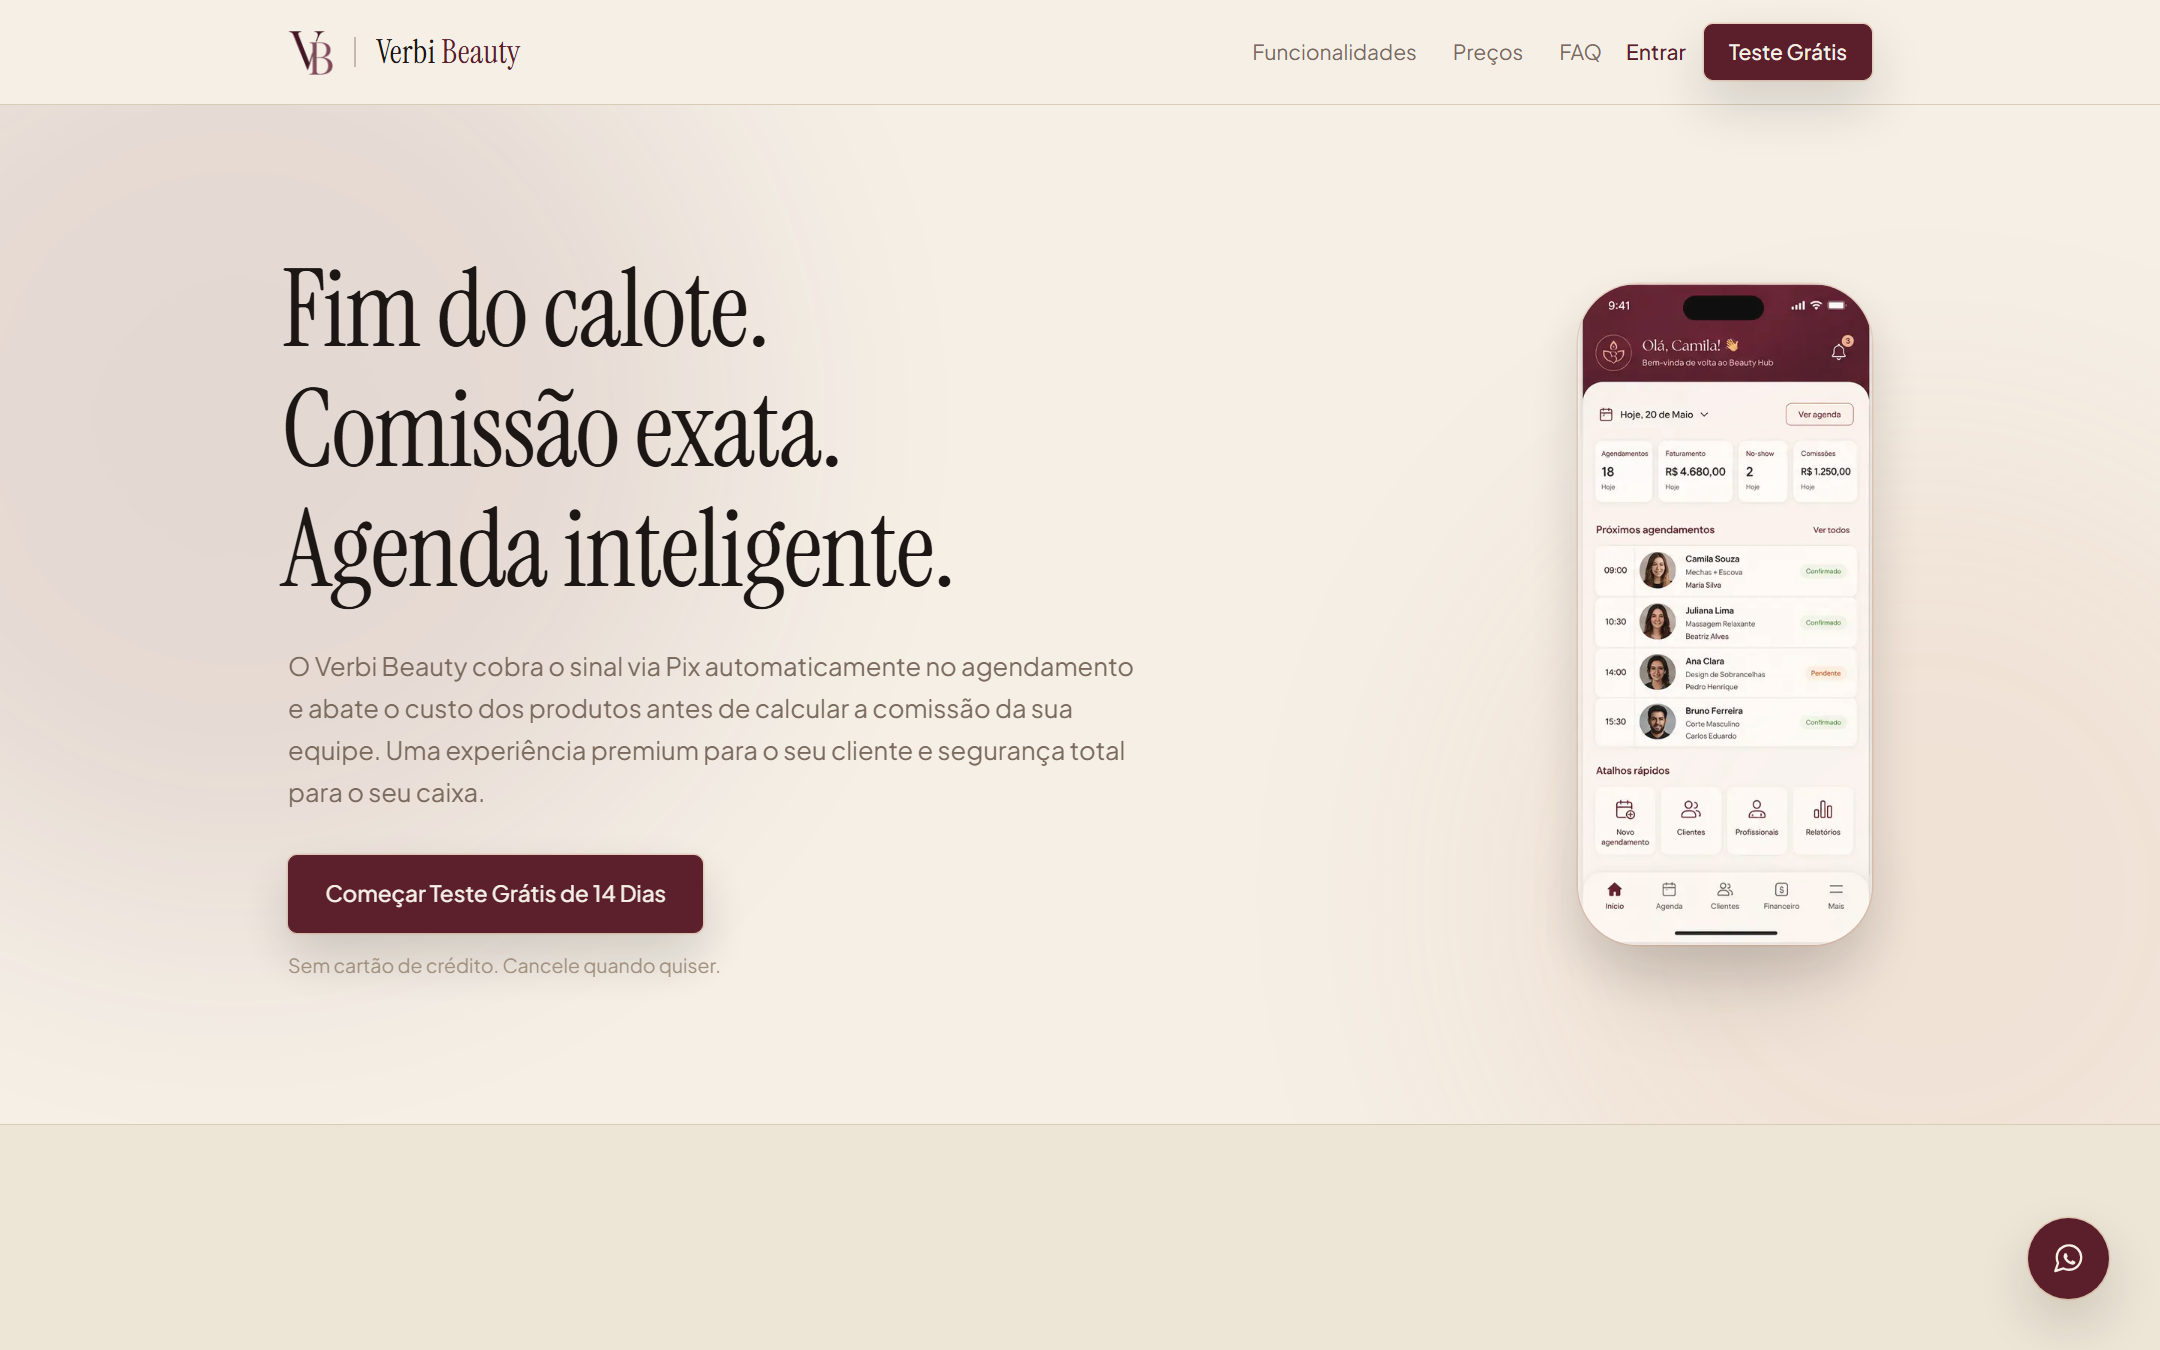
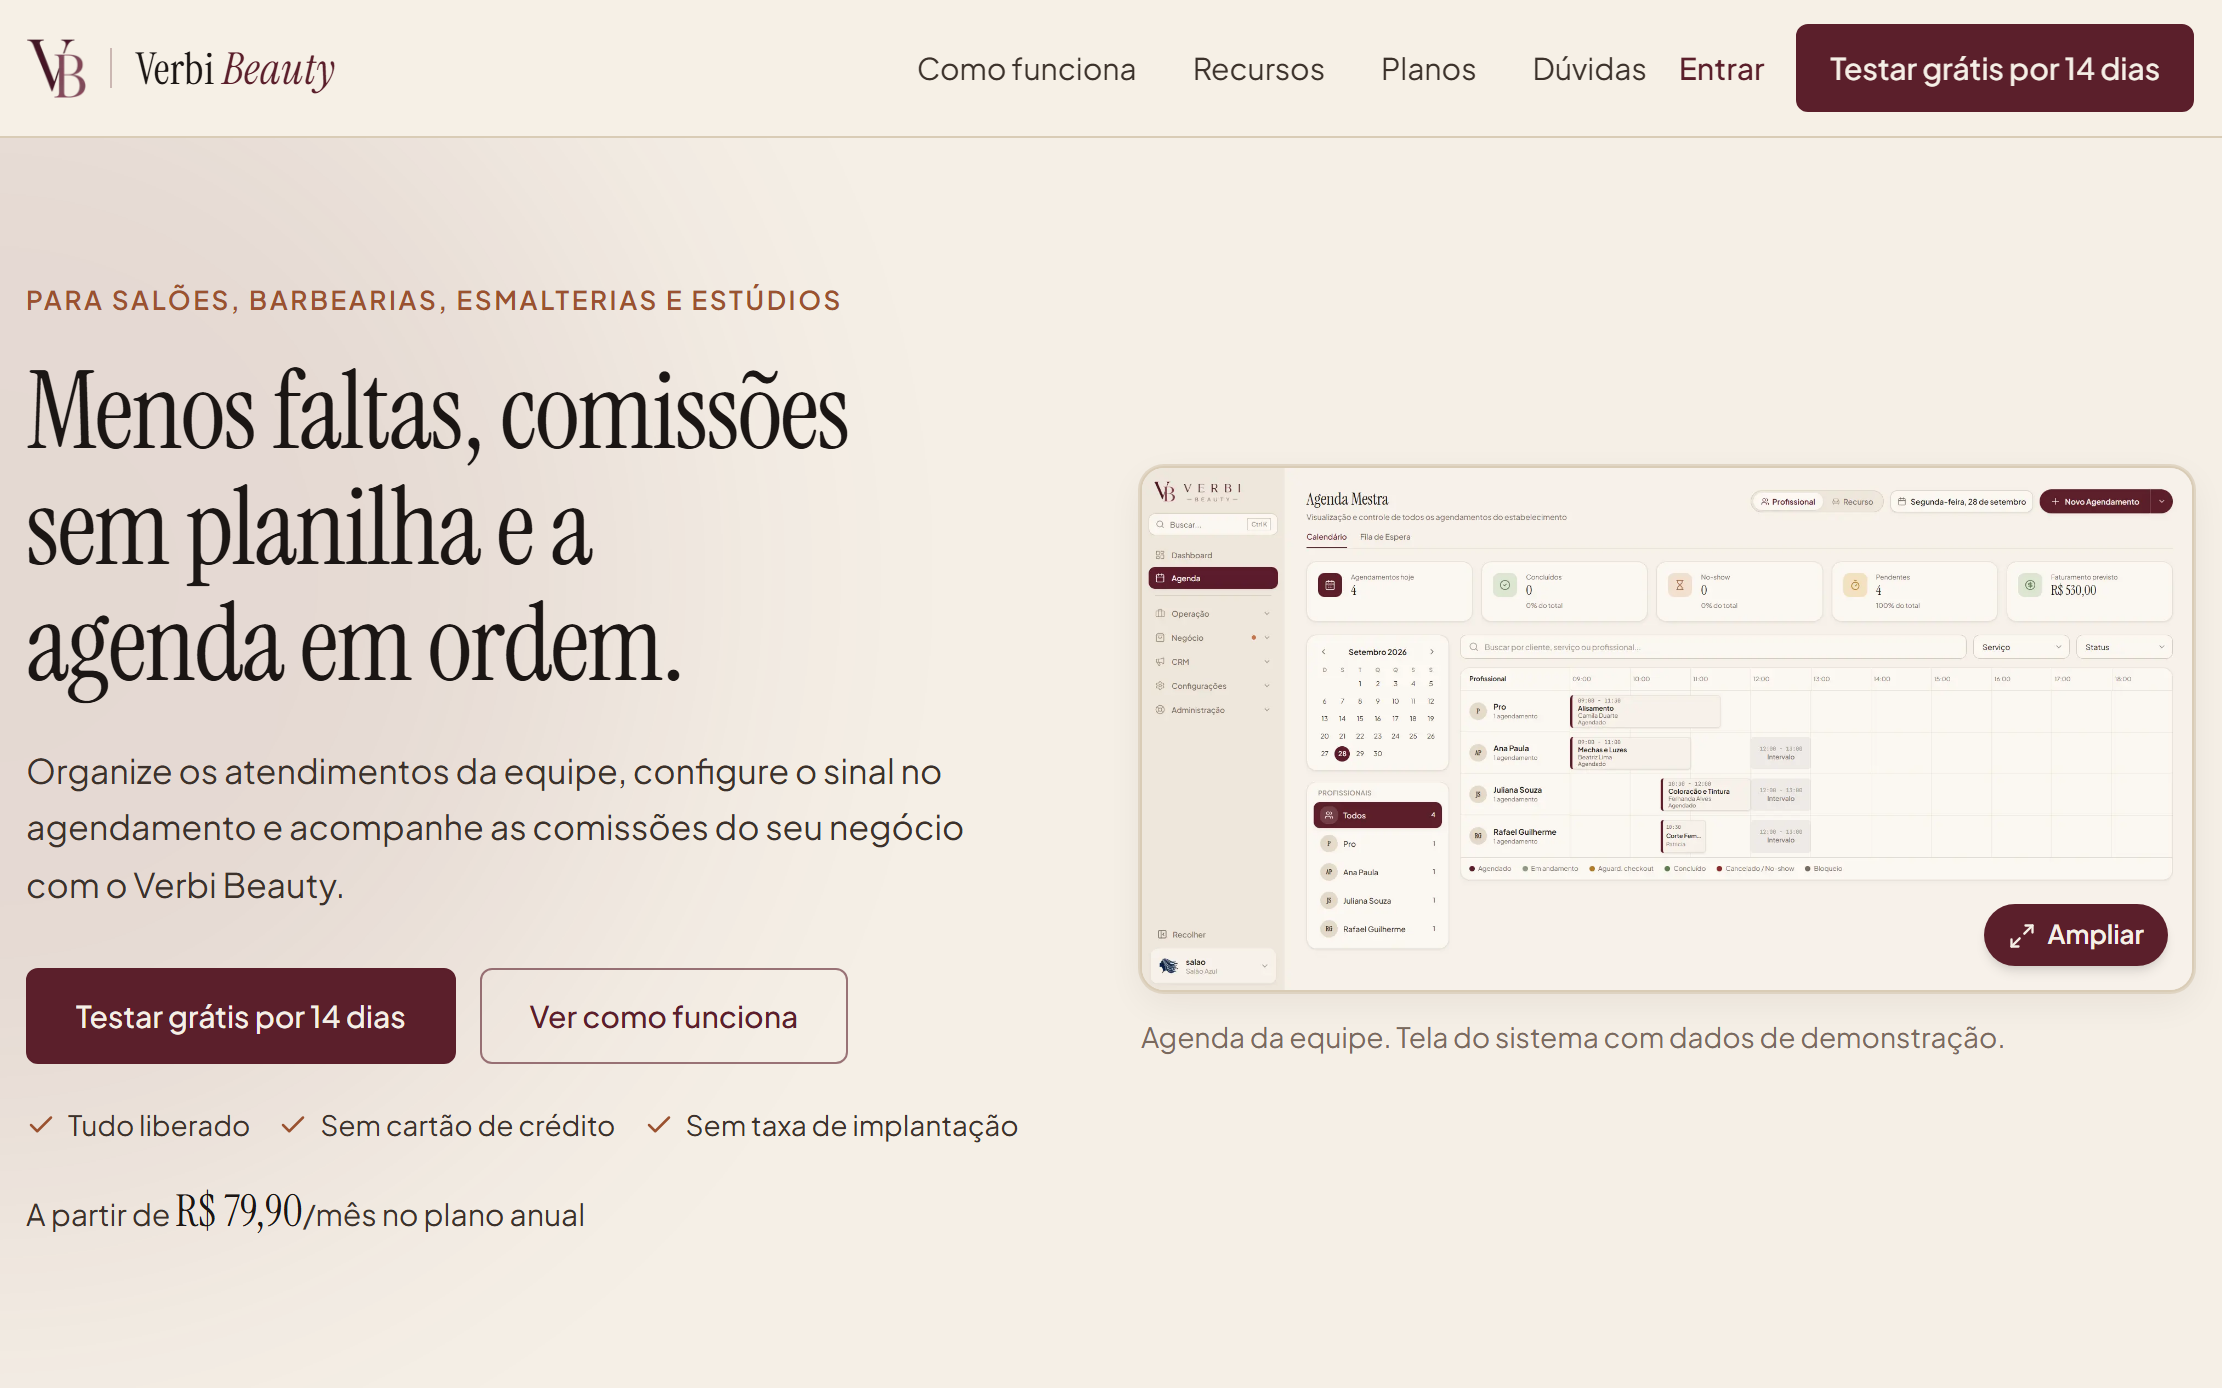
Trabalhos da Verbinden e Stack por área
- "Projetos" vira "Trabalhos" (EN: "Work"), com eyebrow "Verbinden"
- Hospital Management System sai; entra o site do Dr. Victor Camillo (Agência Verbinden)
- Cards com texto focado no resultado para o cliente e chips com as entregas
- Captura nova do Verbi Beauty (landing atual) e imagens dos cards sempre coloridas
- Stack dividida em Backend, Frontend, Entrega e qualidade e Segurança na prática;
  "Aprimorando" segue igual, numa linha separada mais discreta

diff --git a/src/i18n/pt.ts b/src/i18n/pt.ts
@@ -20,7 +20,7 @@ export const pt: Dictionary = {
   nav: {
     about: 'Sobre',
     experience: 'Experiência',
-    projects: 'Projetos',
+    projects: 'Trabalhos',
     stack: 'Stack',
     education: 'Formação',
     contact: 'Contato',
@@ -81,39 +81,43 @@ export const pt: Dictionary = {
     ],
   },
   projects: {
-    eyebrow: 'Portfólio',
-    title: 'Projetos',
+    eyebrow: 'Verbinden',
+    title: 'Trabalhos',
     items: [
       {
         title: 'Verbi Beauty',
-        subtitle: 'Verbinden',
+        subtitle: 'Sistema de gestão (SaaS)',
         description:
-          'Sistema de gestão para salões, barbearias, esmalterias e estúdios: agenda da equipe, sinal por Pix no agendamento online e comissões calculadas por regra. Em fase final antes do lançamento. Código privado.',
+          'Sistema de gestão para salões, barbearias, esmalterias e estúdios que reduz faltas e acaba com a planilha de comissões: o horário só é confirmado com o sinal pago por Pix, e a comissão de cada profissional sai calculada, já descontando o custo de material. Em fase final antes do lançamento. Código privado.',
         imageAlt:
-          'Painel do Verbi Beauty mostrando a agenda do dia, faturamento e os próximos agendamentos',
-        tags: [],
+          'Página do Verbi Beauty com o título "Menos faltas, comissões sem planilha e a agenda em ordem" e a tela da agenda da equipe',
+        tags: [
+          'Agendamento online com sinal por Pix',
+          'Comissões automáticas',
+          'Agenda da equipe',
+          'Lembretes no WhatsApp',
+          'Multi-tenant e seguro',
+        ],
         links: [
           { label: 'beauty.verbinden.com.br', href: 'https://beauty.verbinden.com.br' },
           { label: 'verbinden.com.br', href: 'https://verbinden.com.br' },
         ],
       },
       {
-        title: 'Hospital Management System',
+        title: 'Site do Dr. Victor Camillo',
+        subtitle: 'Agência Verbinden',
         description:
-          'Sistema de gestão de patrimônio hospitalar com auditoria completa de alterações via Hibernate Envers, autenticação stateless com JWT e controle de acesso por função (RBAC). Projeto individual.',
+          'Site feito para transformar quem encontra um endocrinologista do Rio de Janeiro no Google ou no Instagram em consulta marcada: explica o que ele trata e como é a consulta, e leva o paciente direto ao WhatsApp com a mensagem pronta para agendar. Em fase de publicação.',
         imageAlt:
-          'Tela de login do Hospital Management System, com acesso restrito e um modo de visitante para recrutadores',
-        tags: ['Java 21', 'Spring Boot 3', 'React', 'PostgreSQL'],
-        links: [
-          {
-            label: 'Código no GitHub',
-            href: 'https://github.com/EndryusSchmidel/hospital-management-system',
-          },
-          {
-            label: 'Demo online',
-            href: 'https://hospital-management-system-gilt-kappa.vercel.app/',
-          },
+          'Página inicial do site do Dr. Victor Camillo, com o título "Equilíbrio hormonal, saúde em cada fase" e a foto do médico',
+        tags: [
+          'SEO para aparecer no Google',
+          'Consultório no Google Maps',
+          'Carregamento rápido no celular e no PC',
+          'Português e inglês',
+          'Cliques no WhatsApp medidos',
         ],
+        links: [{ label: 'verbinden.com.br/agencia', href: 'https://verbinden.com.br/agencia' }],
       },
     ],
   },
@@ -122,12 +126,25 @@ export const pt: Dictionary = {
     title: 'Stack',
     groups: [
       {
-        title: 'Uso em produção',
-        items: ['React', 'TypeScript', 'Java', 'Spring Boot', 'PostgreSQL', 'Docker'],
+        title: 'Backend',
+        items: ['Java', 'Spring Boot', 'Spring Security', 'JPA/Hibernate', 'Flyway', 'PostgreSQL'],
+      },
+      {
+        title: 'Frontend',
+        items: ['React', 'TypeScript', 'Tailwind', 'TanStack Query', 'Next.js'],
+      },
+      {
+        title: 'Entrega e qualidade',
+        items: ['Docker', 'GitHub Actions', 'Sentry', 'Cloudflare', 'Vitest', 'Playwright'],
+      },
+      {
+        title: 'Segurança na prática',
+        items: ['JWT + RBAC', 'Isolamento multi-tenant', 'Rate limiting', 'OWASP Top 10'],
       },
       {
         title: 'Aprimorando',
         items: ['Segurança ofensiva web', 'Burp Suite', 'Nmap', 'Python para automação'],
+        secondary: true,
       },
     ],
   },

diff --git a/src/i18n/en.ts b/src/i18n/en.ts
@@ -22,7 +22,7 @@ export const en: Dictionary = {
   nav: {
     about: 'About',
     experience: 'Experience',
-    projects: 'Projects',
+    projects: 'Work',
     stack: 'Stack',
     education: 'Education',
     contact: 'Contact',
@@ -83,38 +83,43 @@ export const en: Dictionary = {
     ],
   },
   projects: {
-    eyebrow: 'Portfolio',
-    title: 'Projects',
+    eyebrow: 'Verbinden',
+    title: 'Work',
     items: [
       {
         title: 'Verbi Beauty',
-        subtitle: 'Verbinden',
+        subtitle: 'Management system (SaaS)',
         description:
-          'Management system for salons, barbershops, nail studios and beauty studios: team schedule, Pix deposits on online booking and rule-based commissions. In the final stretch before launch. Private source code.',
-        imageAlt: "Verbi Beauty dashboard showing today's schedule, revenue and upcoming appointments",
-        tags: [],
+          'Management system for salons, barbershops, nail studios and beauty studios that cuts no-shows and ends commission spreadsheets: a booking is only confirmed once the Pix deposit is paid, and each professional\'s commission is calculated automatically, net of material costs. In the final stretch before launch. Private source code.',
+        imageAlt:
+          'Verbi Beauty landing page with the headline "Fewer no-shows, commissions without spreadsheets and an organized schedule" and the team schedule screen',
+        tags: [
+          'Online booking with Pix deposit',
+          'Automatic commissions',
+          'Team schedule',
+          'WhatsApp reminders',
+          'Secure multi-tenant',
+        ],
         links: [
           { label: 'beauty.verbinden.com.br', href: 'https://beauty.verbinden.com.br' },
           { label: 'verbinden.com.br', href: 'https://verbinden.com.br' },
         ],
       },
       {
-        title: 'Hospital Management System',
+        title: 'Dr. Victor Camillo website',
+        subtitle: 'Agência Verbinden',
         description:
-          'Hospital asset management system with a full change audit trail via Hibernate Envers, stateless JWT authentication and role-based access control (RBAC). Solo project.',
+          'A website built to turn people who find an endocrinologist in Rio de Janeiro on Google or Instagram into booked appointments: it explains what he treats and how the appointment works, and takes the patient straight to WhatsApp with a ready-made message to book. About to be published.',
         imageAlt:
-          'Hospital Management System login screen, with restricted access and a visitor mode for recruiters',
-        tags: ['Java 21', 'Spring Boot 3', 'React', 'PostgreSQL'],
-        links: [
-          {
-            label: 'Source on GitHub',
-            href: 'https://github.com/EndryusSchmidel/hospital-management-system',
-          },
-          {
-            label: 'Live demo',
-            href: 'https://hospital-management-system-gilt-kappa.vercel.app/',
-          },
+          'Home page of Dr. Victor Camillo\'s website, with the headline "Hormonal balance, health at every stage" and a photo of the doctor',
+        tags: [
+          'SEO to show up on Google',
+          'Practice on Google Maps',
+          'Fast on mobile and desktop',
+          'Portuguese and English',
+          'WhatsApp clicks tracked',
         ],
+        links: [{ label: 'verbinden.com.br/agencia', href: 'https://verbinden.com.br/agencia' }],
       },
     ],
   },
@@ -123,12 +128,25 @@ export const en: Dictionary = {
     title: 'Stack',
     groups: [
       {
-        title: 'Used in production',
-        items: ['React', 'TypeScript', 'Java', 'Spring Boot', 'PostgreSQL', 'Docker'],
+        title: 'Backend',
+        items: ['Java', 'Spring Boot', 'Spring Security', 'JPA/Hibernate', 'Flyway', 'PostgreSQL'],
+      },
+      {
+        title: 'Frontend',
+        items: ['React', 'TypeScript', 'Tailwind', 'TanStack Query', 'Next.js'],
+      },
+      {
+        title: 'Delivery & quality',
+        items: ['Docker', 'GitHub Actions', 'Sentry', 'Cloudflare', 'Vitest', 'Playwright'],
+      },
+      {
+        title: 'Security in practice',
+        items: ['JWT + RBAC', 'Multi-tenant isolation', 'Rate limiting', 'OWASP Top 10'],
       },
       {
         title: 'Improving',
         items: ['Offensive web security', 'Burp Suite', 'Nmap', 'Python for automation'],
+        secondary: true,
       },
     ],
   },

diff --git a/src/i18n/types.ts b/src/i18n/types.ts
@@ -89,7 +89,8 @@ export interface Dictionary {
     /** Rótulo pequeno em caixa alta exibido acima do título */
     eyebrow: string;
     title: string;
-    groups: { title: string; items: string[] }[];
+    /** `secondary` vai numa linha à parte, mais discreta, abaixo da grade principal */
+    groups: { title: string; items: string[]; secondary?: boolean }[];
   };
   education: {
     /** Rótulo pequeno em caixa alta exibido acima do título */
